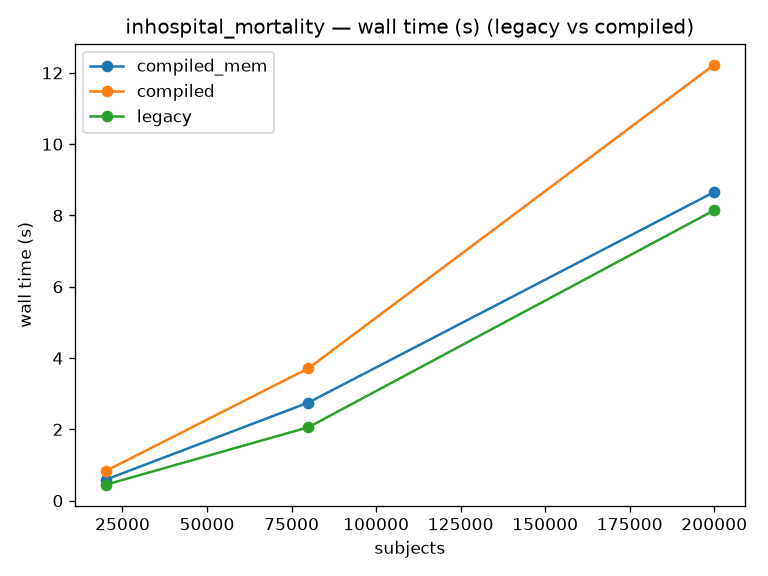
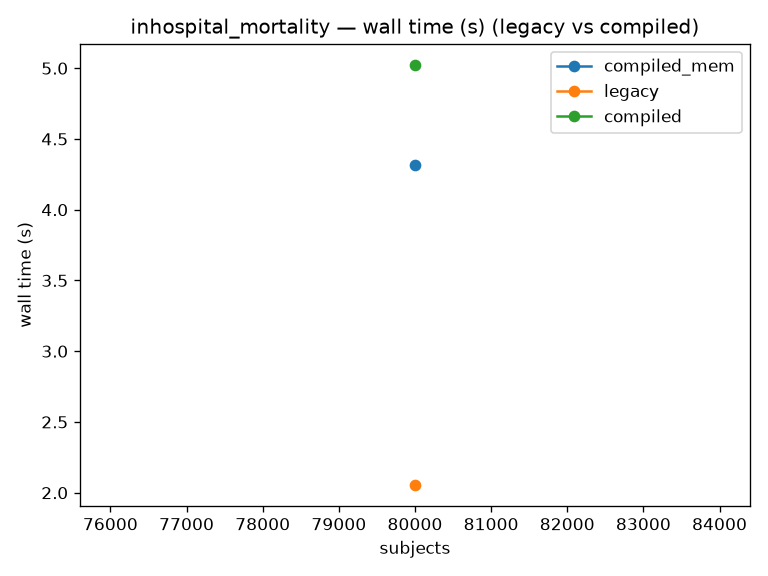
Restrict event-bound window summary to anchors (+ memory measurements)
The event-bound path ran boolean_expr_bound_sum (concat + sort + windowed
fill_null) over every row, then discarded all non-anchor rows. An anchor's
nearest boundary depends only on boundary rows, never on other non-anchor
"real" rows, so restricting the real rows to the current anchor set before the
concat/sort is exact and shrinks that step from O(all events) to
O(anchors + boundary events). Cumulative sums are still taken over the full
frame, so per-row counts are unchanged.

- _window_exprs.py: summarize_event_bound_window / _boolean_expr_bound_sum_lazy
  gain an optional anchors= restriction (semi-join on the real rows).
- compile.py: _process_children passes the current anchor timestamps in.

Effect (in-memory, 80k subjects): event-bound configs that previously lost now
win -- imminent_mortality 2.26s->0.54s (0.24x legacy), long_term_recurrence
0.57x; inhospital_mortality improves 2.12x->1.65x but still loses (its
event-bound windows anchor on low-selectivity admissions and one scans the full
history via -_RECORD_START).

Also re-ran the isolated time+memory sweep on the current engine (the previous
isolated.csv predated flattening) and extended the harness to complex
chain/wide configs:
- run_isolated.py / _run_one.py: accept 'chain:N' / 'wide:N' specs.
- benchmarks/results: refreshed isolated.csv + plots (now incl chain16, wide16,
  imminent_mortality). Memory is not a uniform win -- compiled is leaner where
[…]

diff --git a/benchmarks/run_isolated.py b/benchmarks/run_isolated.py
@@ -23,16 +23,32 @@ from pathlib import Path
 import polars as pl
 
 from aces.config import TaskExtractorConfig
-from generate import generate_predicates_df  # benchmarks/ is on sys.path when run as a script
+from complex_configs import BUILDERS  # benchmarks/ on sys.path when run as a script
+from generate import generate_predicates_df
 
 REPO_ROOT = Path(__file__).resolve().parent.parent
 ENGINES = ["legacy", "compiled", "compiled_mem"]
 
 
-def _run_one(config: str, parquet: Path, engine: str) -> dict:
+def _parse_spec(spec: str) -> tuple[str, str, int, str]:
+    """'inhospital_mortality' -> sample; 'chain:16' / 'wide:8' -> complex builder."""
+    if ":" in spec:
+        kind, n = spec.split(":")
+        return kind, "", int(n), f"{kind}{n}"
+    return "sample", spec, 1, spec
+
+
+def _load_cfg(kind: str, config: str, n_windows: int) -> TaskExtractorConfig:
+    if kind == "sample":
+        return TaskExtractorConfig.load(str(REPO_ROOT / "sample_configs" / f"{config}.yaml"))
+    return BUILDERS[kind](n_windows)
+
+
+def _run_one(kind: str, config: str, n_windows: int, parquet: Path, engine: str) -> dict:
     proc = subprocess.run(
         [sys.executable, str(Path(__file__).parent / "_run_one.py"),
-         "--config", config, "--parquet", str(parquet), "--engine", engine],
+         "--kind", kind, "--config", config, "--n-windows", str(n_windows),
+         "--parquet", str(parquet), "--engine", engine],
         capture_output=True, text=True, cwd=str(REPO_ROOT), check=True,
     )
     # _run_one prints a single JSON line (last non-empty stdout line).
@@ -40,20 +56,21 @@ def _run_one(config: str, parquet: Path, engine: str) -> dict:
     return json.loads(line)
 
 
-def run(configs: list[str], sizes: list[int], events_per_subject: int, seed: int) -> pl.DataFrame:
+def run(specs: list[str], sizes: list[int], events_per_subject: int, seed: int) -> pl.DataFrame:
     rows = []
     with tempfile.TemporaryDirectory(prefix="aces_isolated_") as tmp:
-        for config in configs:
-            cfg = TaskExtractorConfig.load(str(REPO_ROOT / "sample_configs" / f"{config}.yaml"))
+        for spec in specs:
+            kind, config, n_windows, label = _parse_spec(spec)
+            cfg = _load_cfg(kind, config, n_windows)
             for n in sizes:
                 df = generate_predicates_df(cfg, n, events_per_subject, seed)
-                parquet = Path(tmp) / f"{config}_{n}.parquet"
+                parquet = Path(tmp) / f"{label}_{n}.parquet"
                 df.write_parquet(parquet)
                 for engine in ENGINES:
-                    m = _run_one(config, parquet, engine)
-                    rows.append({"config": config, "n_subjects": n, "n_pred_rows": df.height, **m})
+                    m = _run_one(kind, config, n_windows, parquet, engine)
+                    rows.append({"config": label, "n_subjects": n, "n_pred_rows": df.height, **m})
                     print(
-                        f"{config:22s} {engine:13s} N={n:>8,}  "
+                        f"{label:22s} {engine:13s} N={n:>8,}  "
                         f"{m['seconds']:8.3f}s  peak={m['peak_wset_mb']:9.1f}MB  rows={m['result_rows']}"
                     )
     return pl.DataFrame(rows)

diff --git a/src/aces/_window_exprs.py b/src/aces/_window_exprs.py
@@ -61,11 +61,24 @@ def summarize_temporal_window(lf: pl.LazyFrame, endpoint_expr: TemporalWindowBou
     )
 
 
-def summarize_event_bound_window(lf: pl.LazyFrame, endpoint_expr: ToEventWindowBounds) -> pl.LazyFrame:
-    """Lazy analogue of :func:`aces.aggregate.aggregate_event_bound_window`."""
+def summarize_event_bound_window(
+    lf: pl.LazyFrame,
+    endpoint_expr: ToEventWindowBounds,
+    anchors: pl.LazyFrame | None = None,
+) -> pl.LazyFrame:
+    """Lazy analogue of :func:`aces.aggregate.aggregate_event_bound_window`.
+
+    If ``anchors`` (a frame with ``subject_id``/``timestamp``) is given, the output is
+    restricted to those rows. This is *not* just a post-filter: it shrinks the expensive
+    concat+sort inside the boundary-sum from O(all events) to O(anchors + boundary events),
+    which is exact because non-anchor "real" rows never affect an anchor's nearest boundary
+    (only boundary rows propagate via the fill). See ``_boolean_expr_bound_sum_lazy``.
+    """
     if not isinstance(endpoint_expr, ToEventWindowBounds):
         endpoint_expr = ToEventWindowBounds(*endpoint_expr)
-    return _boolean_expr_bound_sum_lazy(lf, **endpoint_expr.boolean_expr_bound_sum_kwargs)
+    return _boolean_expr_bound_sum_lazy(
+        lf, **endpoint_expr.boolean_expr_bound_sum_kwargs, anchors=anchors
+    )
 
 
 def _boolean_expr_bound_sum_lazy(
@@ -74,6 +87,7 @@ def _boolean_expr_bound_sum_lazy(
     mode: str,
     closed: str,
     offset: timedelta = timedelta(0),
+    anchors: pl.LazyFrame | None = None,
 ) -> pl.LazyFrame:
     """Faithful lazy port of :func:`aces.aggregate.boolean_expr_bound_sum`.
 
@@ -166,8 +180,16 @@ def _boolean_expr_bound_sum_lazy(
         pl.lit(False).alias("is_real"),
     )
 
+    # Only the anchor rows need to appear in the output, and dropping non-anchor real rows
+    # does not change any anchor's nearest boundary (only boundary rows carry the fill), so
+    # this restriction is exact -- it just shrinks the concat+sort below. The cumsum columns
+    # were already computed over the full frame above, so per-row counts stay correct.
+    real_rows = lf
+    if anchors is not None:
+        real_rows = lf.join(anchors, on=["subject_id", "timestamp"], how="semi")
+
     with_at_boundary_events = (
-        pl.concat([lf.with_columns(pl.lit(True).alias("is_real")), at_boundary_df], how="diagonal")
+        pl.concat([real_rows.with_columns(pl.lit(True).alias("is_real")), at_boundary_df], how="diagonal")
         .sort(by=["subject_id", "timestamp"])
         .select(
             "subject_id",

diff --git a/src/aces/compile.py b/src/aces/compile.py
@@ -134,18 +134,17 @@ def _process_children(
             child_anchor_time = (
                 "timestamp_at_start" if endpoint_expr.end_event.startswith("-") else "timestamp_at_end"
             )
+            # Restrict the (expensive) event-bound summary to the current anchor timestamps.
+            anchor_ts = cur.select(
+                "subject_id", pl.col("subtree_anchor_timestamp").alias("timestamp")
+            ).unique(maintain_order=True)
             ws = (
-                summarize_event_bound_window(predicates_lf, endpoint_expr)
+                summarize_event_bound_window(predicates_lf, endpoint_expr, anchors=anchor_ts)
                 .with_columns(
                     pl.col("timestamp").alias("subtree_anchor_timestamp"),
                     pl.col(child_anchor_time).alias("child_anchor_timestamp"),
                 )
                 .drop("timestamp")
-                .join(
-                    cur.select("subject_id", "subtree_anchor_timestamp").unique(maintain_order=True),
-                    on=["subject_id", "subtree_anchor_timestamp"],
-                    how="inner",
-                )
             )
             if child.constraints:
                 ws = ws.filter(_constraint_keep_expr(child.constraints))

diff --git a/benchmarks/_run_one.py b/benchmarks/_run_one.py
@@ -36,14 +36,24 @@ def _peak_wset_mb() -> float:
         return float("nan")
 
 
+def _load_cfg(kind: str, config: str, n_windows: int) -> TaskExtractorConfig:
+    if kind == "sample":
+        return TaskExtractorConfig.load(f"sample_configs/{config}.yaml")
+    from complex_configs import BUILDERS
+
+    return BUILDERS[kind](n_windows)
+
+
 def main() -> None:
     parser = argparse.ArgumentParser()
-    parser.add_argument("--config", required=True)
+    parser.add_argument("--kind", default="sample", choices=["sample", "chain", "wide"])
+    parser.add_argument("--config", default="", help="sample config stem (kind=sample)")
+    parser.add_argument("--n-windows", type=int, default=1, help="window count (kind=chain|wide)")
     parser.add_argument("--parquet", required=True)
     parser.add_argument("--engine", required=True, choices=["legacy", "compiled", "compiled_mem"])
     args = parser.parse_args()
 
-    cfg = TaskExtractorConfig.load(f"sample_configs/{args.config}.yaml")
+    cfg = _load_cfg(args.kind, args.config, args.n_windows)
 
     t0 = time.perf_counter()
     if args.engine == "legacy":

diff --git a/docs/source/compiled_engine.md b/docs/source/compiled_engine.md
@@ -187,39 +187,65 @@ to a realized boundary event. This restores linear scaling (right column above):
 it is **20× faster than the naive compile and ≈2× faster than legacy**, with bit-for-bit
 identical output (parity tests green).
 
-### 6.3 Where the compiled engine now stands vs legacy
+### 6.3 The event-bound anchor restriction
 
-| config (80 k subjects, 4.08 M rows) | shape | legacy (s) | compiled (s) | ratio |
+A second optimization targets the event-bound path. `summarize_event_bound_window` ran the
+full `boolean_expr_bound_sum` (a `concat` + `sort` + windowed `fill_null`) over *every* row,
+then `_process_children` discarded all non-anchor rows. But an anchor's nearest boundary is
+determined only by the boundary rows — non-anchor "real" rows never affect it. So restricting
+the real rows to the current anchor set *before* the concat/sort is **exact**, and shrinks
+that step from O(all events) to O(anchors + boundary events). The cumulative sums are still
+taken over the full frame (one pass) so per-row counts stay correct. Wired through the
+optional `anchors=` argument; the window-twin tests still exercise the unrestricted path.
+
+Effect on event-bound configs (in-memory collect, 80 k subjects):
+
+| config | legacy (s) | compiled before (s) | compiled after (s) |
+| --- | --- | --- | --- |
+| `imminent_mortality` | 2.26 | — | **0.54** (0.24×) |
+| `long_term_recurrence` | 1.62 | — | **0.92** (0.57×) |
+| `inhospital_mortality` | 1.88 | 3.99 (2.12×) | 3.11 (1.65×) |
+
+Most event-bound configs now beat legacy. `inhospital_mortality` improves but remains slower:
+its event-bound windows anchor on admissions (~25 % of events — low selectivity), so the
+anchor restriction prunes little, and the `-_RECORD_START` window still cumsum-scans the full
+frame.
+
+### 6.4 Where the compiled engine now stands vs legacy
+
+After flattening (§6.2) + the anchor restriction (§6.3), config shape decides the winner.
+Numbers below are the committed isolated-subprocess sweep (80 k subjects, in-memory collect
+over `scan_parquet`; [`benchmarks/results/isolated.csv`](../../benchmarks/results),
+`*_seconds.png` / `*_peak_wset_mb.png`):
+
+| config (80 k subjects) | shape | legacy s / MB | compiled s / MB | time ratio |
 | --- | --- | --- | --- | --- |
-| temporal chain ×32 | deep temporal | 2.71 | **1.34** | 0.49× |
-| `readmission_risk` | shallow | 1.19 | **1.01** | 0.85× |
-| `inhospital_mortality` | event-bound-heavy | **1.91** | 3.99 | 2.09× |
+| `wide` ×16 | wide temporal | 8.59 / 6331 | **2.79 / 5842** | 0.32× |
+| `chain` ×16 | deep temporal | 6.65 / 3258 | **2.67** / 6048 | 0.40× |
+| `imminent_mortality` | event-bound | 2.39 / 4279 | **0.57 / 2677** | 0.24× |
+| `readmission_risk` | shallow | 1.16 / 1857 | **0.81 / 1568** | 0.70× |
+| `inhospital_mortality` | event-bound, low-selectivity | **2.06 / 2753** | 4.32 / 5503 | 2.10× |
 
-So after flattening the compiled engine **wins on temporal-heavy and wide configs** and
-**loses on event-bound-heavy configs**. The remaining gap is entirely in the event-bound
-window summary: those edges still nest *and* run the faithful, full-frame
-`boolean_expr_bound_sum` port (a `concat` + `sort` + windowed `fill_null` over the whole
-frame per event-bound window). Memory tracks time — the compiled engine is leaner where it
-is faster and heavier where it is slower; the earlier isolated peak-RSS sweep
-([`benchmarks/results/isolated.csv`](../../benchmarks/results)) was taken on the
-event-bound-heavy `inhospital_mortality`/`readmission_risk` pair *before* flattening and
-should be re-run for the current numbers.
+Memory does **not** uniformly track speed. Where the compiled engine wins it is often also
+leaner (`imminent_mortality` 2.7 GB vs 4.3 GB; `readmission_risk` 1.6 GB vs 1.9 GB), but the
+flat temporal accumulation keeps many summary structs live at once, so the deep/wide chains
+are faster yet heavier (`chain16` 6.0 GB vs 3.3 GB). `inhospital_mortality` is the one config
+that loses on both — its event-bound windows anchor on low-selectivity admissions and one of
+them scans the full history (`-_RECORD_START`).
 
 ## 7. Remaining optimization levers
 
-Flattening (§6.2) is done. The next wins are all about the **event-bound** path and avoiding
-full-frame work:
+Flattening (§6.2) and the event-bound anchor restriction (§6.3) are done. Remaining:
 
-- **Cumulative-sum + as-of join for window summaries.** Precompute per-subject prefix sums of
-  each predicate *once*, then express every temporal/event-bound window count as a
-  cumsum-difference located by as-of joins on the (small) anchor set — sharing the single
-  heavy pass across all windows instead of one full-frame rolling / `boolean_expr_bound_sum`
-  per window. This is the structure hand-written Polars uses and is the most promising lever
-  for the event-bound configs.
+- **Cumulative-sum + as-of join for event-bound windows.** Replace the per-window
+  `concat`+`sort` entirely: precompute per-subject prefix sums *once* (shared across windows),
+  locate each anchor's boundary with a `join_asof`, and take a cumsum-difference. This removes
+  the remaining full-frame scan and is the structure hand-written Polars uses; it is the main
+  lever for low-selectivity cases like `inhospital_mortality`. The hard part is matching the
+  exact `closed`/tie semantics — the 216-case window-twin oracle makes that tractable.
 - **Per-window column projection.** Only compute the predicate counts a window actually
   references rather than all predicates for all windows (needs the "every window summarizes
-  every predicate" output contract relaxed, or the full summary computed lazily only for
-  surviving rows).
+  every predicate" output contract relaxed).
 - **Early subject pruning.** Drop subjects that cannot satisfy a constraint before descending.
 - **Out-of-core, by-subject streaming**, measured against real MIMIC-scale data rather than
   synthetic ≤10 M-row frames — the only regime where the streaming engine should help.
